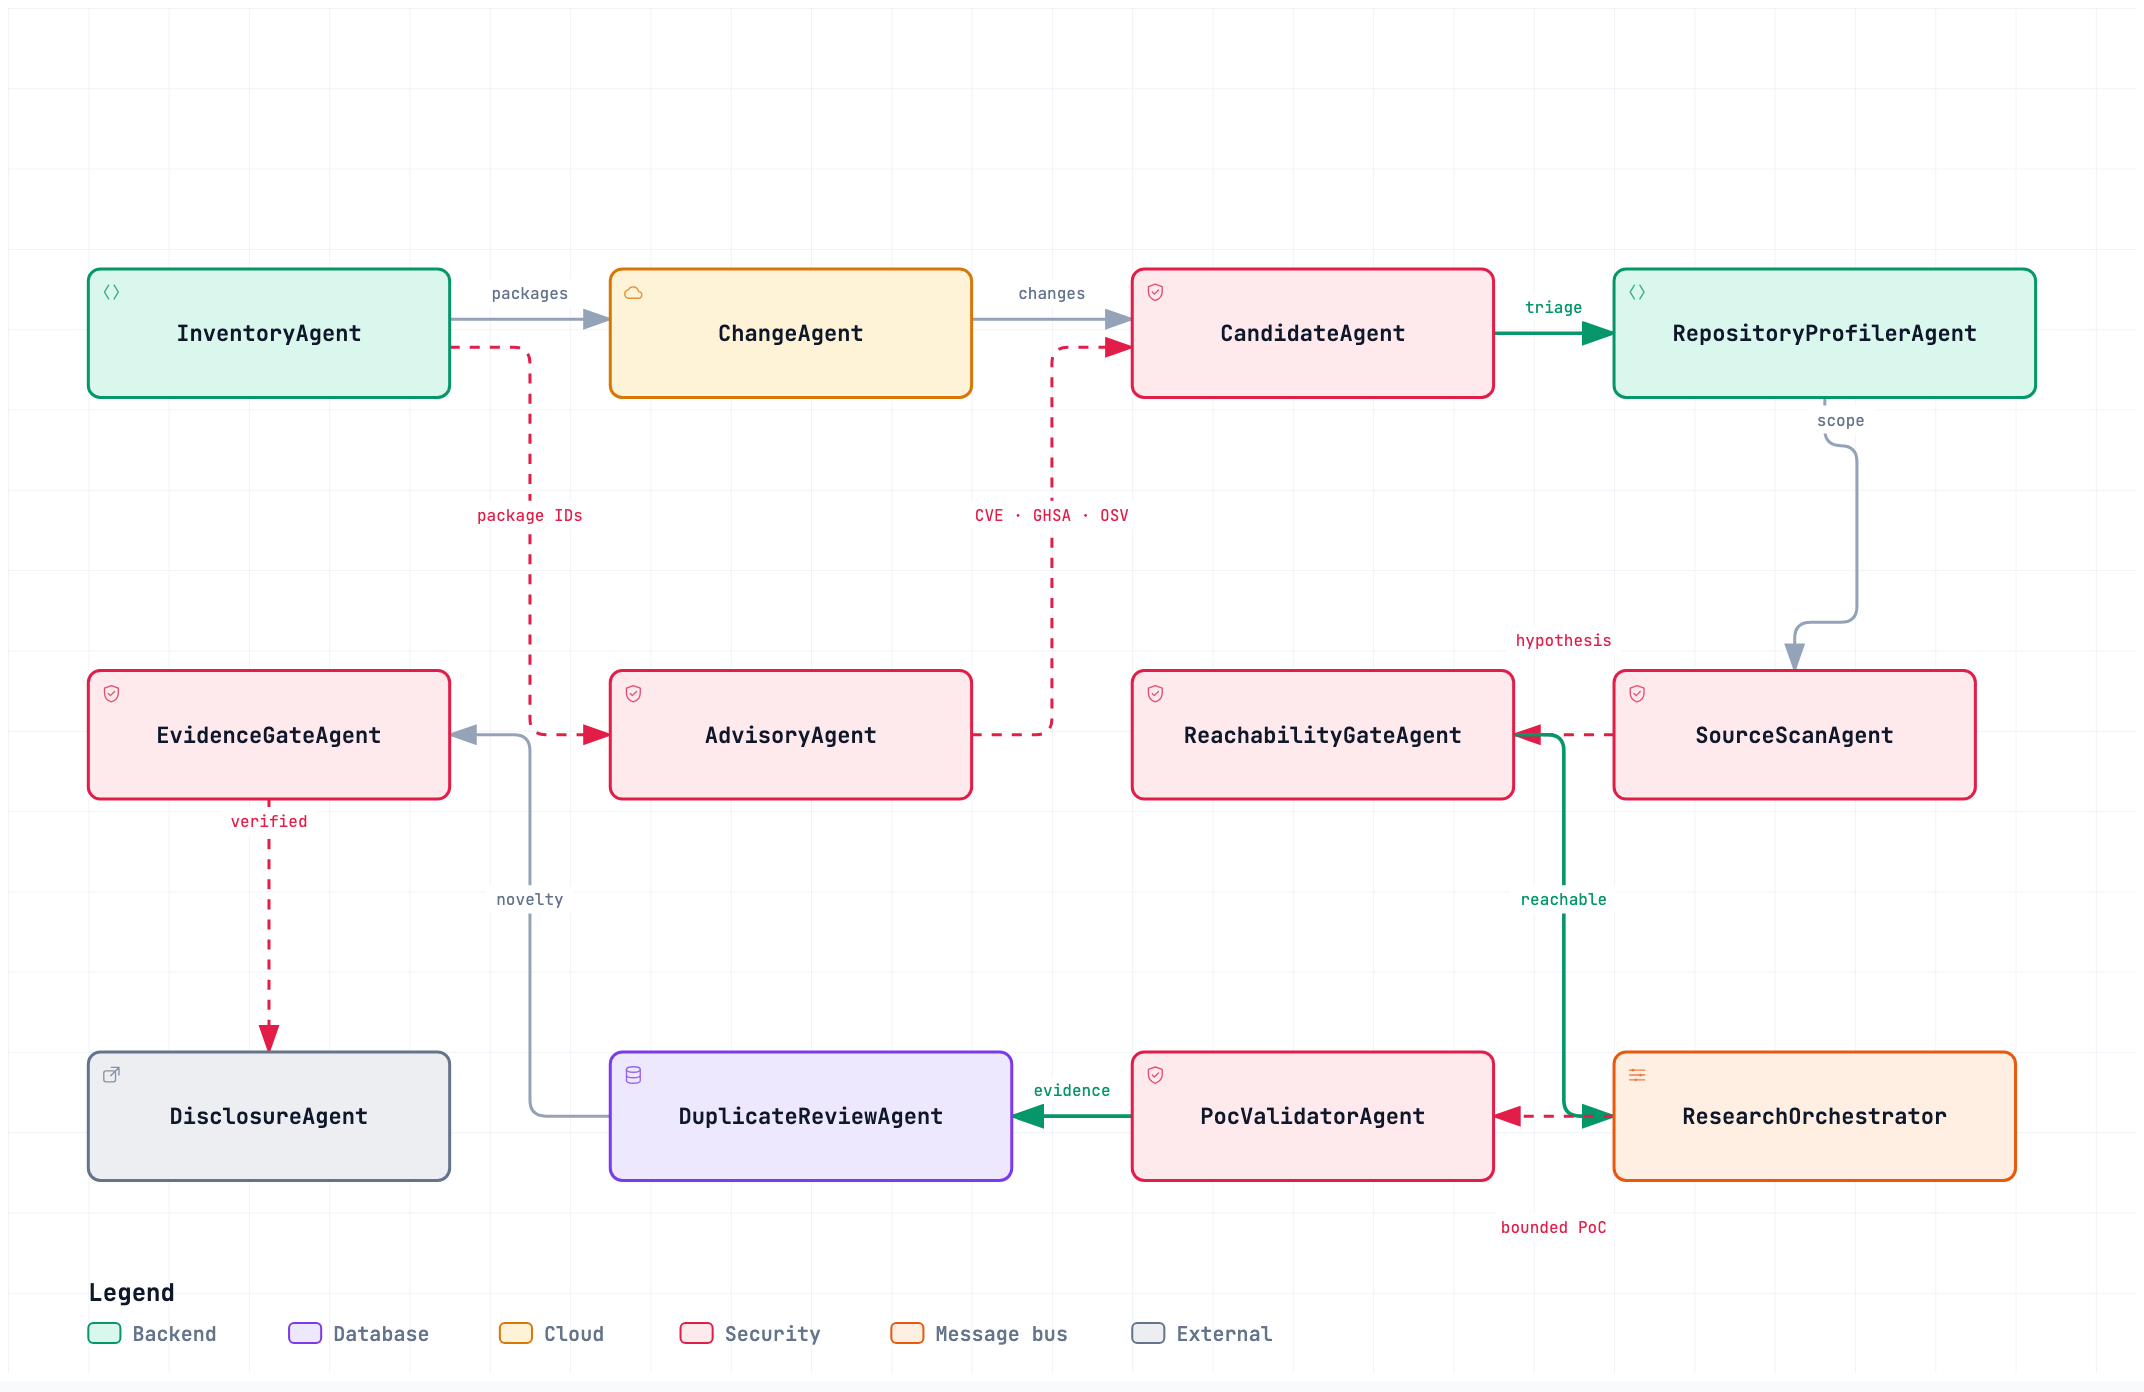
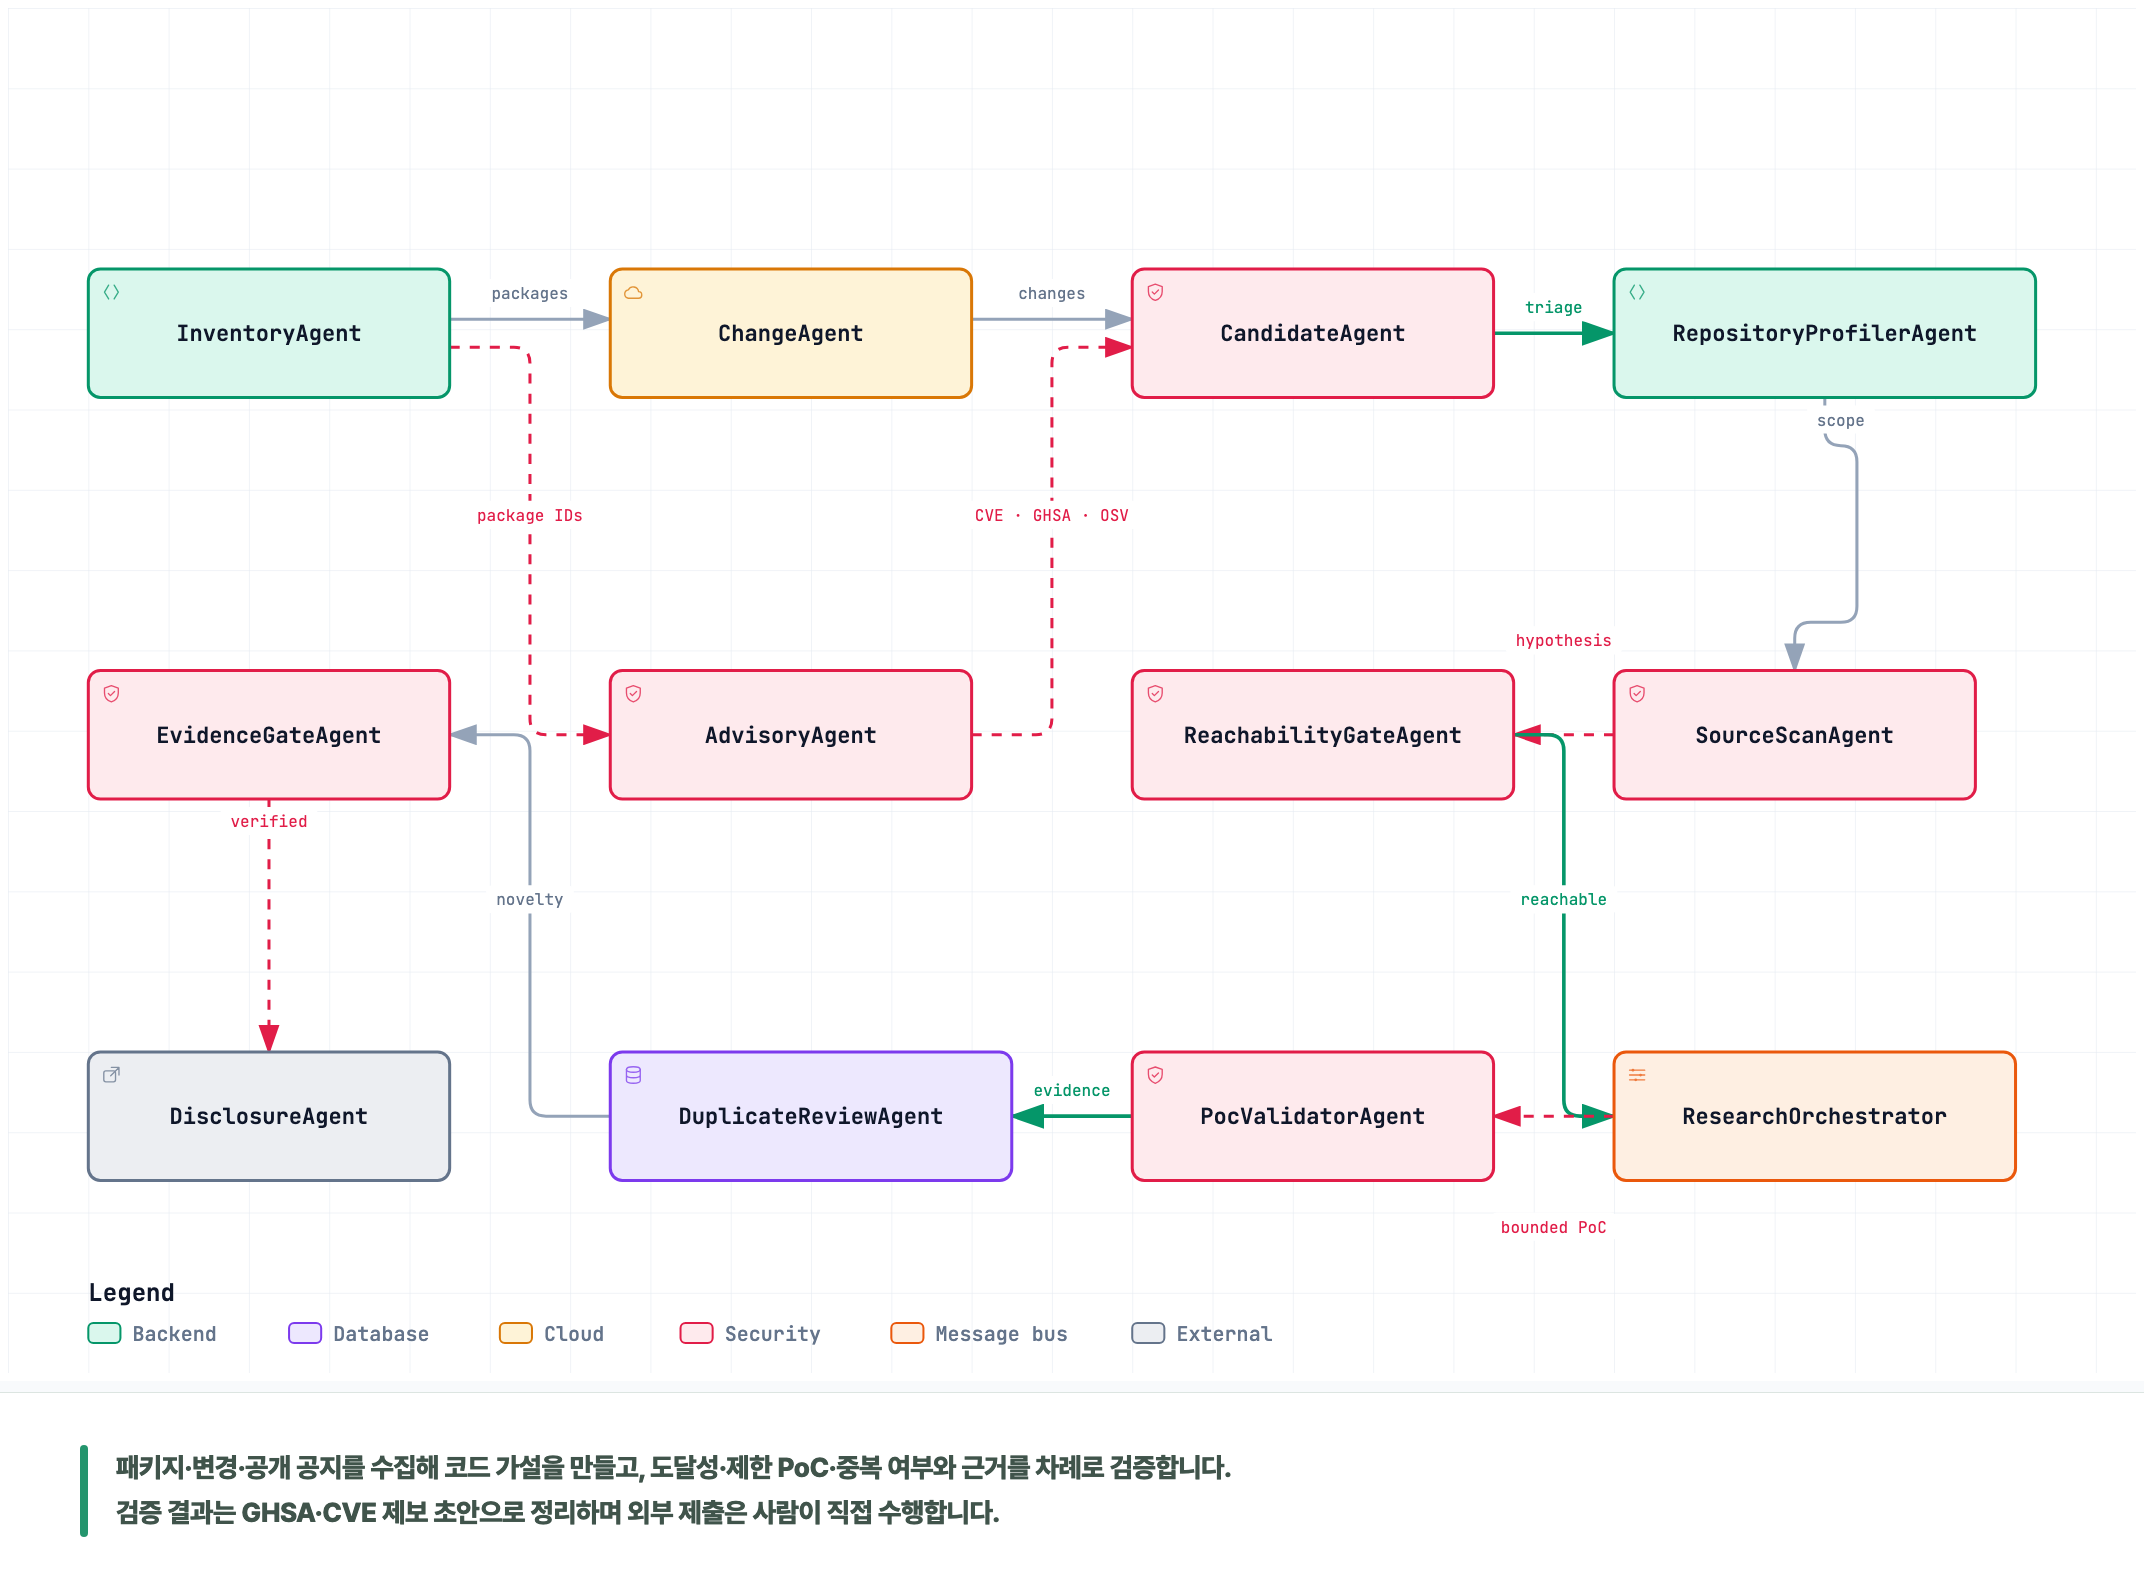
add summary caption to agent architecture PNG

diff --git a/site/architecture/oss-security-timeline-agents-poster.html b/site/architecture/oss-security-timeline-agents-poster.html
@@ -1,0 +1,51 @@
+<!doctype html>
+<html lang="ko">
+<head>
+  <meta charset="utf-8">
+  <meta name="viewport" content="width=device-width, initial-scale=1">
+  <title>OSS Security Timeline · 12개 에이전트 구조도</title>
+  <style>
+    * { box-sizing: border-box; }
+    html, body { width: 2144px; min-height: 1588px; margin: 0; overflow: hidden; }
+    body {
+      background: #f8fafc;
+      color: #17231f;
+      font-family: Pretendard, "Apple SD Gothic Neo", "Noto Sans KR", system-ui, sans-serif;
+    }
+    iframe { display: block; width: 2144px; height: 1392px; border: 0; }
+    .caption {
+      display: grid;
+      grid-template-columns: 8px 1fr;
+      gap: 28px;
+      align-items: center;
+      height: 196px;
+      padding: 30px 80px;
+      border-top: 1px solid #dce5e1;
+      background: #ffffff;
+    }
+    .caption::before {
+      content: "";
+      width: 8px;
+      height: 92px;
+      border-radius: 999px;
+      background: #24956d;
+    }
+    p {
+      max-width: 1900px;
+      margin: 0;
+      color: #40544b;
+      font-size: 27px;
+      font-weight: 620;
+      line-height: 1.65;
+      letter-spacing: -.018em;
+      word-break: keep-all;
+    }
+  </style>
+</head>
+<body>
+  <iframe src="../agent-architecture.html?embed=1" title="OSS Security Timeline 12개 에이전트 구조도"></iframe>
+  <div class="caption">
+    <p>패키지·변경·공개 공지를 수집해 코드 가설을 만들고, 도달성·제한 PoC·중복 여부와 근거를 차례로 검증합니다.<br>검증 결과는 GHSA·CVE 제보 초안으로 정리하며 외부 제출은 사람이 직접 수행합니다.</p>
+  </div>
+</body>
+</html>
